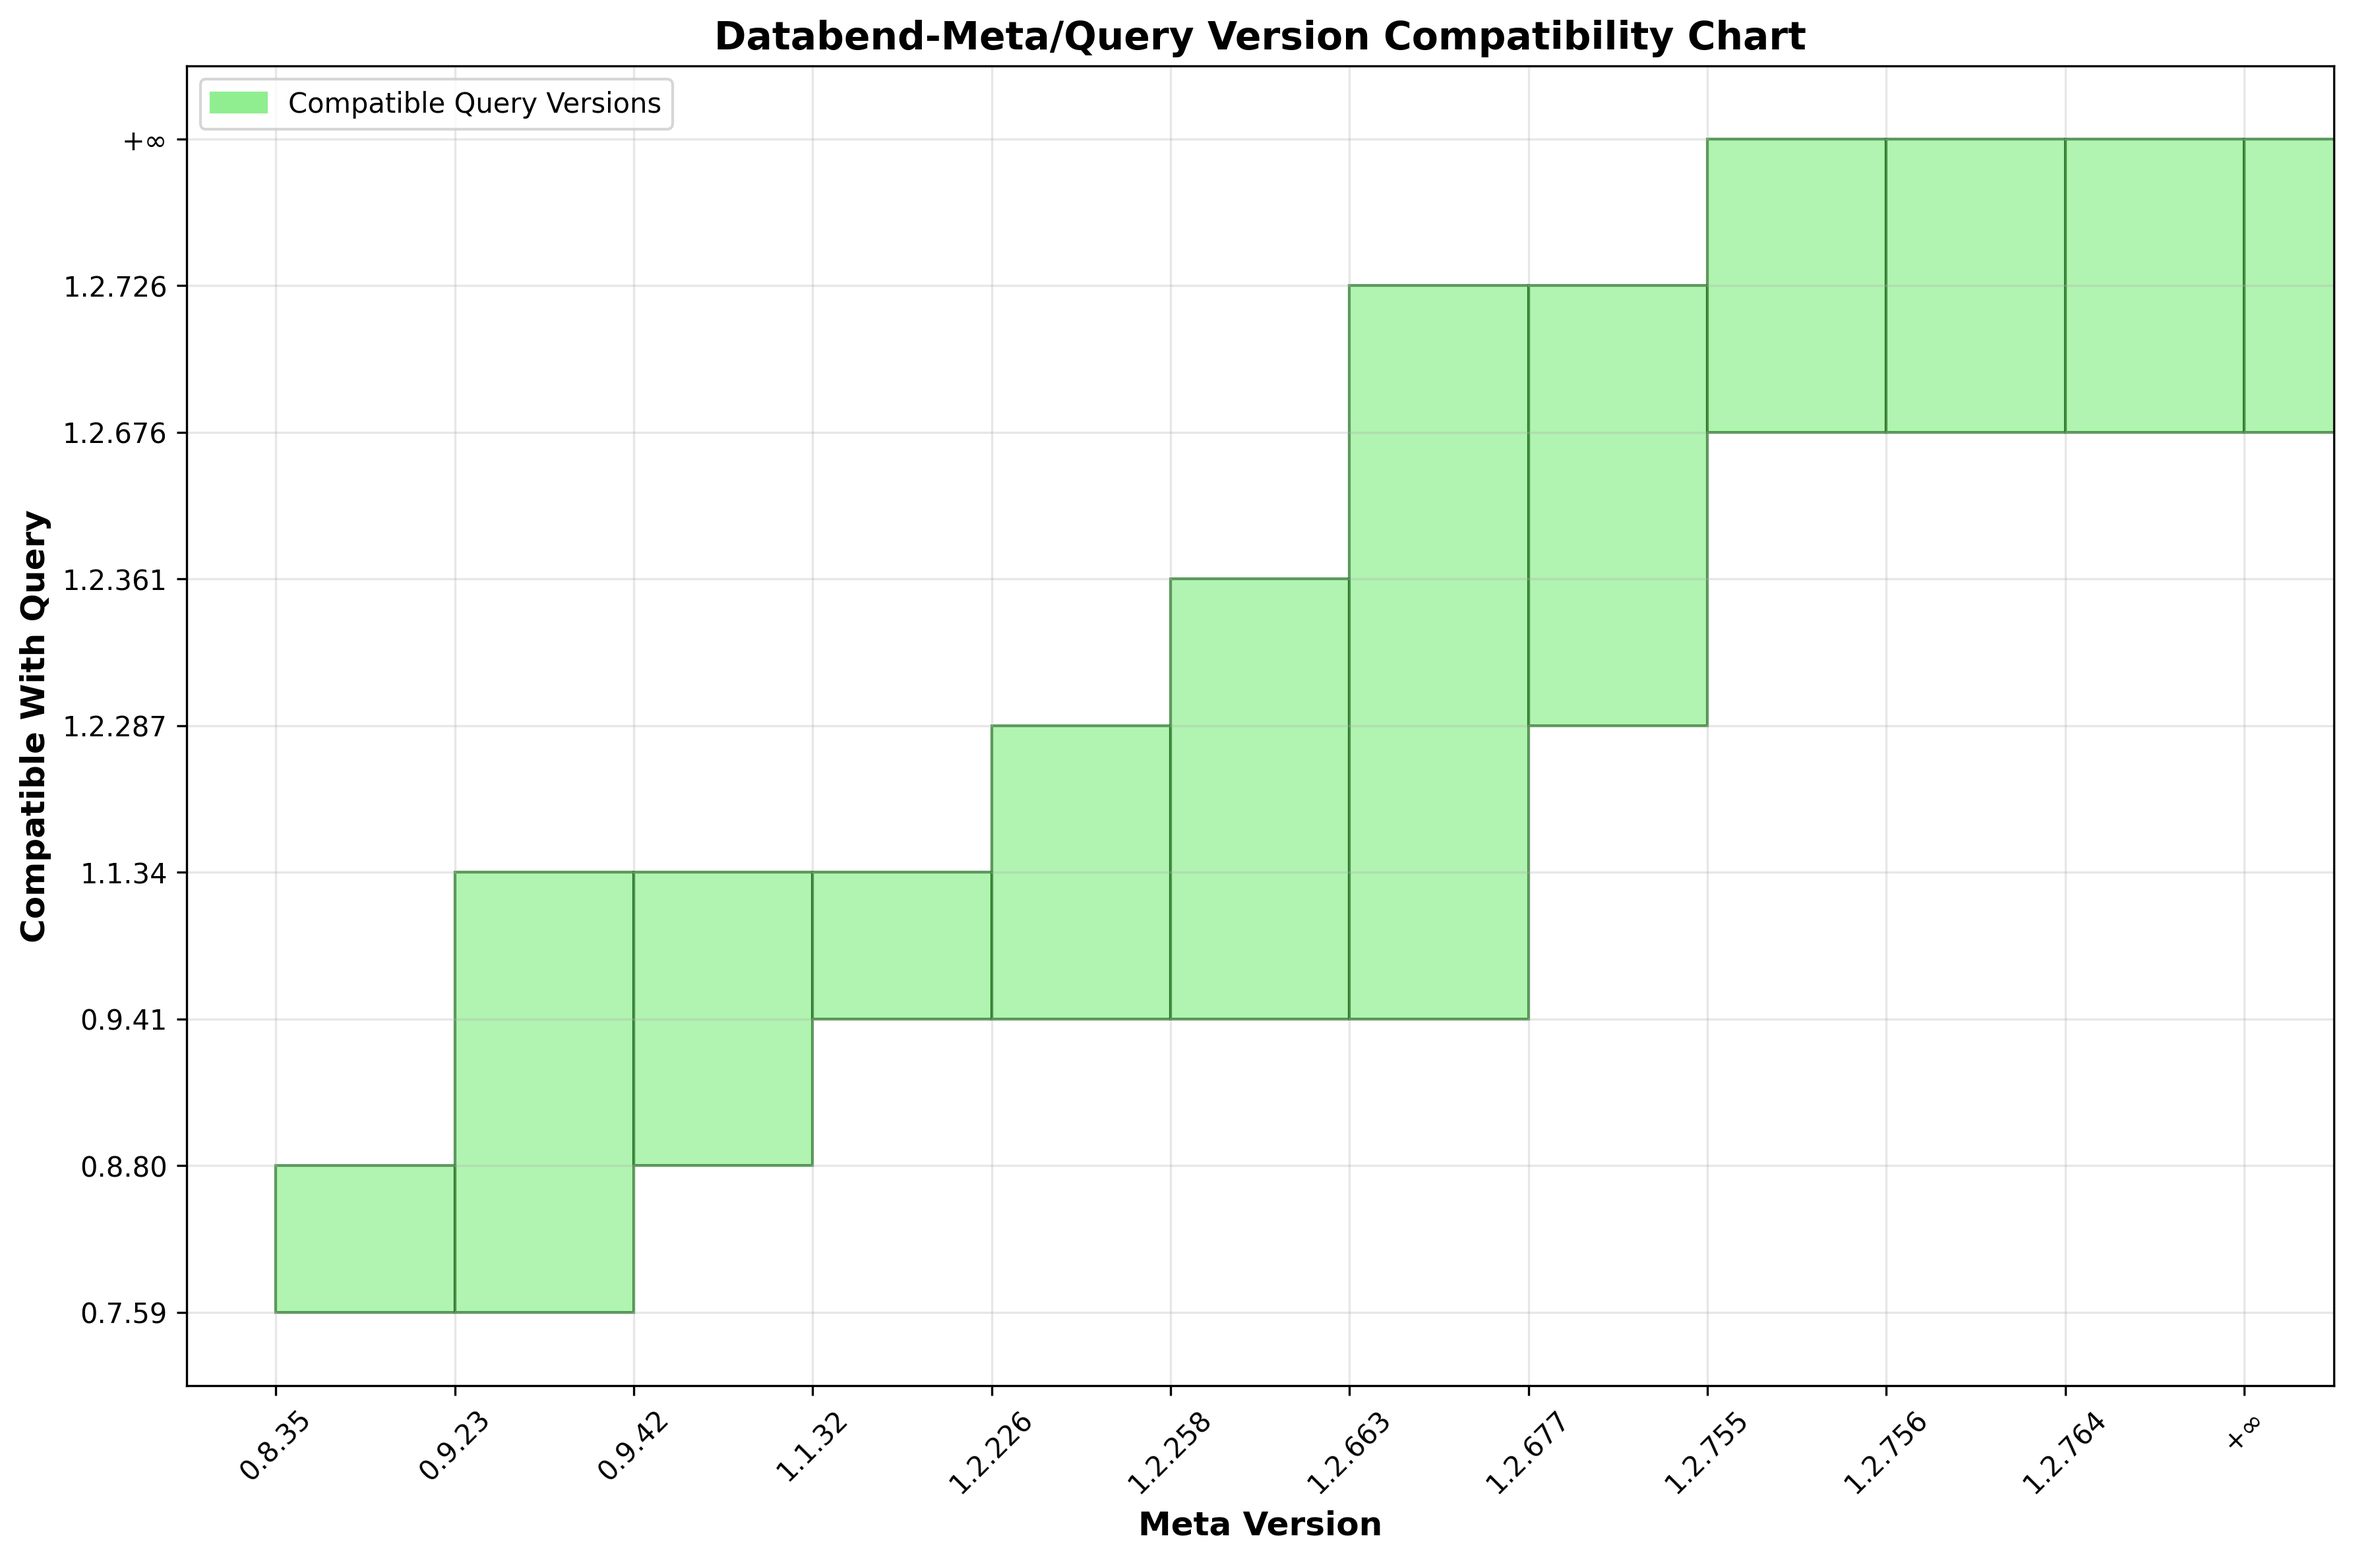
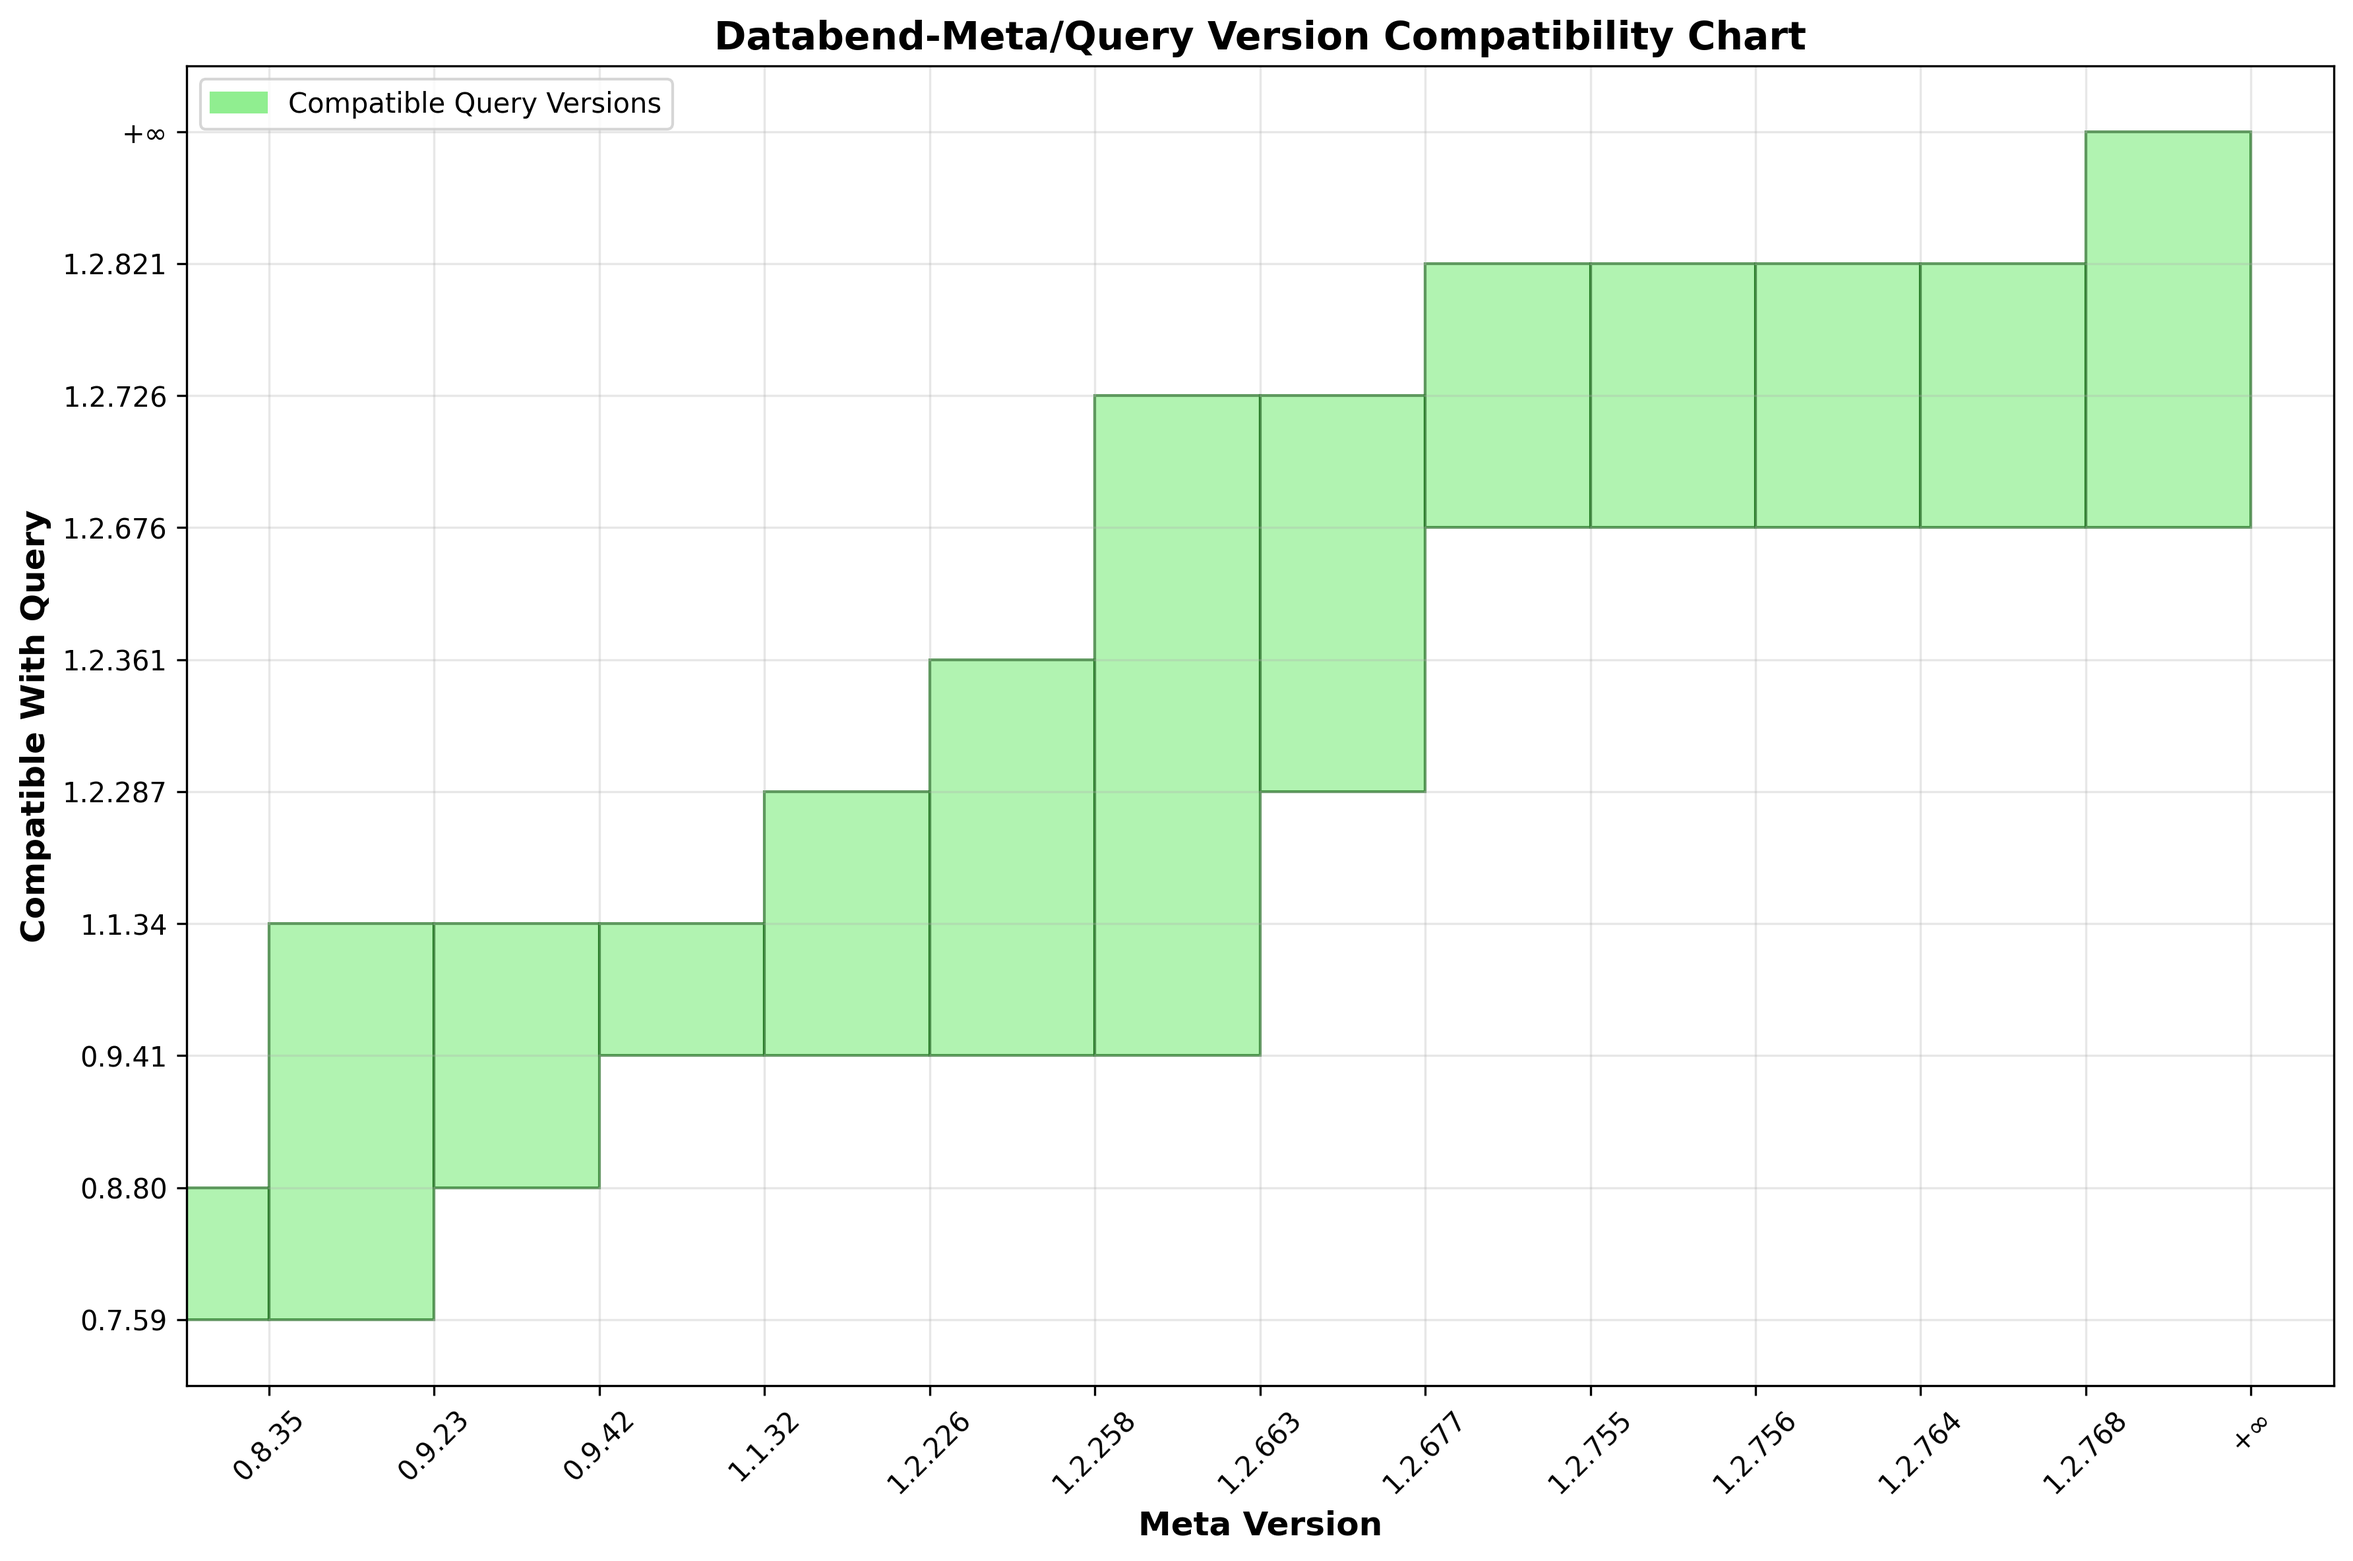
docs: update query-meta compatibility chart

diff --git a/src/meta/compat.py b/src/meta/compat.py
@@ -3,7 +3,7 @@ import matplotlib.pyplot as plt
 import matplotlib.patches as patches
 
 meta_to_query_compat = [
-    # upto meta version(exclusive) : compatible query version(left open, right closed)
+    # upto meta version(exclusive) : compatible query version [from, to) (left closed, right open)
 
     "0.0.0     0.0.0   0.0.0   ",
     "0.8.30    0.0.0   0.0.0   ",
@@ -15,9 +15,10 @@ meta_to_query_compat = [
     "1.2.258   0.9.41  1.2.361 ",
     "1.2.663   0.9.41  1.2.726 ",
     "1.2.677   1.2.287 1.2.726 ",
-    "1.2.755   1.2.676 ∞       ",
-    "1.2.756   1.2.676 ∞       ",
-    "1.2.764   1.2.676 ∞       ",
+    "1.2.755   1.2.676 1.2.821 ",
+    "1.2.756   1.2.676 1.2.821 ",
+    "1.2.764   1.2.676 1.2.821 ",
+    "1.2.768   1.2.676 1.2.821 ",
     "∞         1.2.676 ∞       ",
 ]
 
@@ -59,23 +60,26 @@ def draw_meta_to_query_compat(output_file: str):
     # Create compatibility rectangles
     for i, (meta, q_from, q_to) in enumerate(ranges):
         # Get positions
-        meta_x = meta_pos[meta]
+        meta_end_x = meta_pos[meta]  # This is the exclusive upper bound
         q_from_y = query_pos[q_from]
         q_to_y = query_pos[q_to]
 
-        # Determine the width of the rectangle (next meta version - current)
-        next_meta_idx = sorted_meta_versions.index(meta) + 1
-        if next_meta_idx < len(sorted_meta_versions):
-            width = meta_pos[sorted_meta_versions[next_meta_idx]] - meta_x
+        # Determine the start position (previous meta version or 0)
+        meta_idx = sorted_meta_versions.index(meta)
+        if meta_idx > 0:
+            meta_start_x = meta_pos[sorted_meta_versions[meta_idx - 1]]
         else:
-            width = 1.0  # Width for the last range
+            meta_start_x = -0.5  # Start from beginning for first range
 
-        # Height of the rectangle
+        # Width of the rectangle (up to but not including current meta version)
+        width = meta_end_x - meta_start_x
+
+        # Height of the rectangle ([from, to) range - covers q_from_y to just before q_to_y)
         height = q_to_y - q_from_y
 
         # Create rectangle patch
         rect = patches.Rectangle(
-            (meta_x, q_from_y),
+            (meta_start_x, q_from_y),
             width,
             height,
             linewidth=1,

diff --git a/src/meta/README.md b/src/meta/README.md
@@ -74,19 +74,11 @@ To add a new feature(add new type or update an type), the developer should do:
 
 ## Compatibility with Databend Query
 
-The following is an illustration of the latest query-meta compatibility:
+The Query-Meta compatibility changes when `MIN_METASRV_SEMVER` or `MIN_METACLI_SEMVER` changes.
 
-`[, a.b.c)` denotes the range of versions from previous version(on the left column)(inclusive)
-upto `a.b.c` (exclusive).
+The compatibility is stored in [compat.py](compat.py), and a corresponding illustration is generated:
 
-
-| `Meta\Query`       | 1.2.287) | [, 1.2.361) | [, 1.2.715) | [, 1.2.726)      | [, +∞) |
-|:-------------------|:---------|:------------|:------------|:-----------------|:-------|
-| [1.2.63, 1.2.226)  |          | ❌           | ❌            | ❌                | ❌      |
-| [1.2.226, 1.2.258) |          | ✅           | ❌            | ❌                | ❌      |
-| [1.2.258, 1.2.663) |          | ✅           | ✅            | ✅(no semaphore)  | ❌      |
-| [1.2.663, 1.2.677) |          | ✅           | ✅            | ✅(no semaphore)  | ❌      |
-| [1.2.677, +∞)      |          | ✅           | ✅            | ✅                | ✅      |
+![](compatibility_chart.png)
 
 History versions that are not included in the above chart:
 
